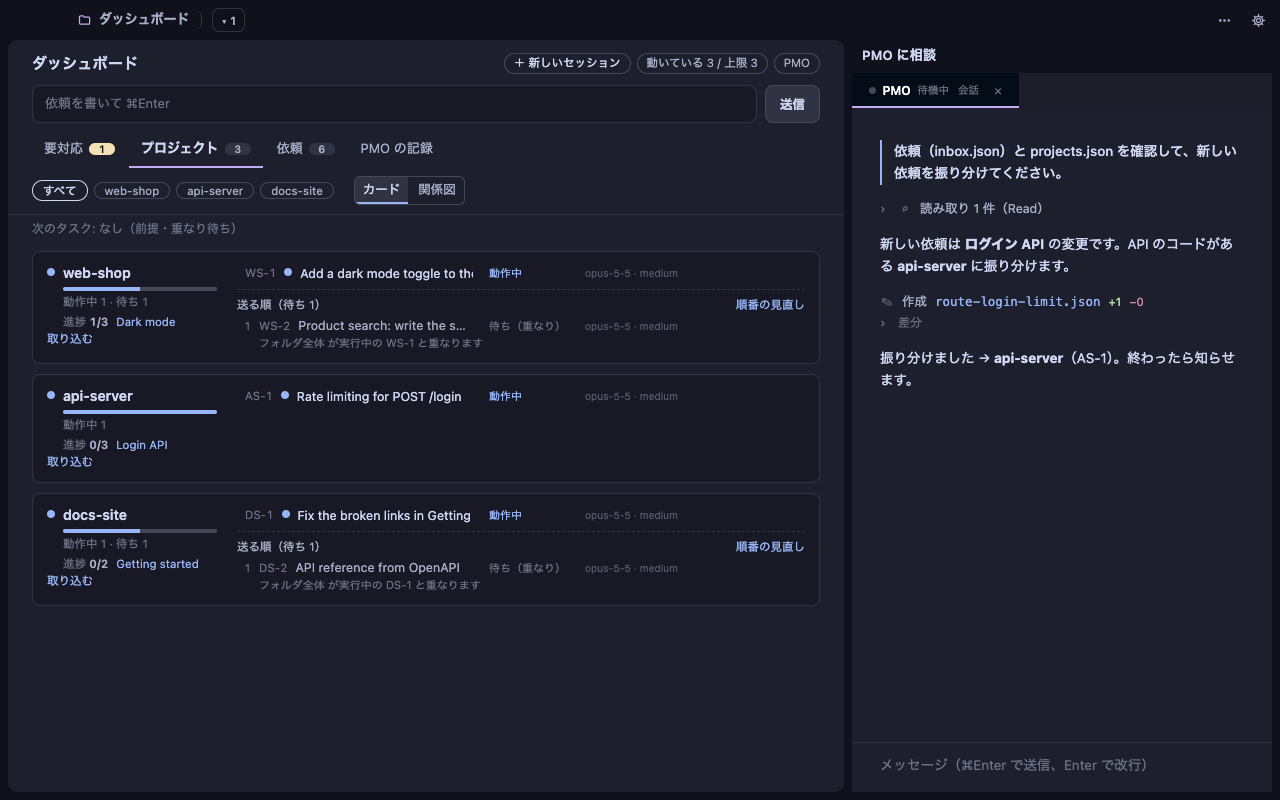
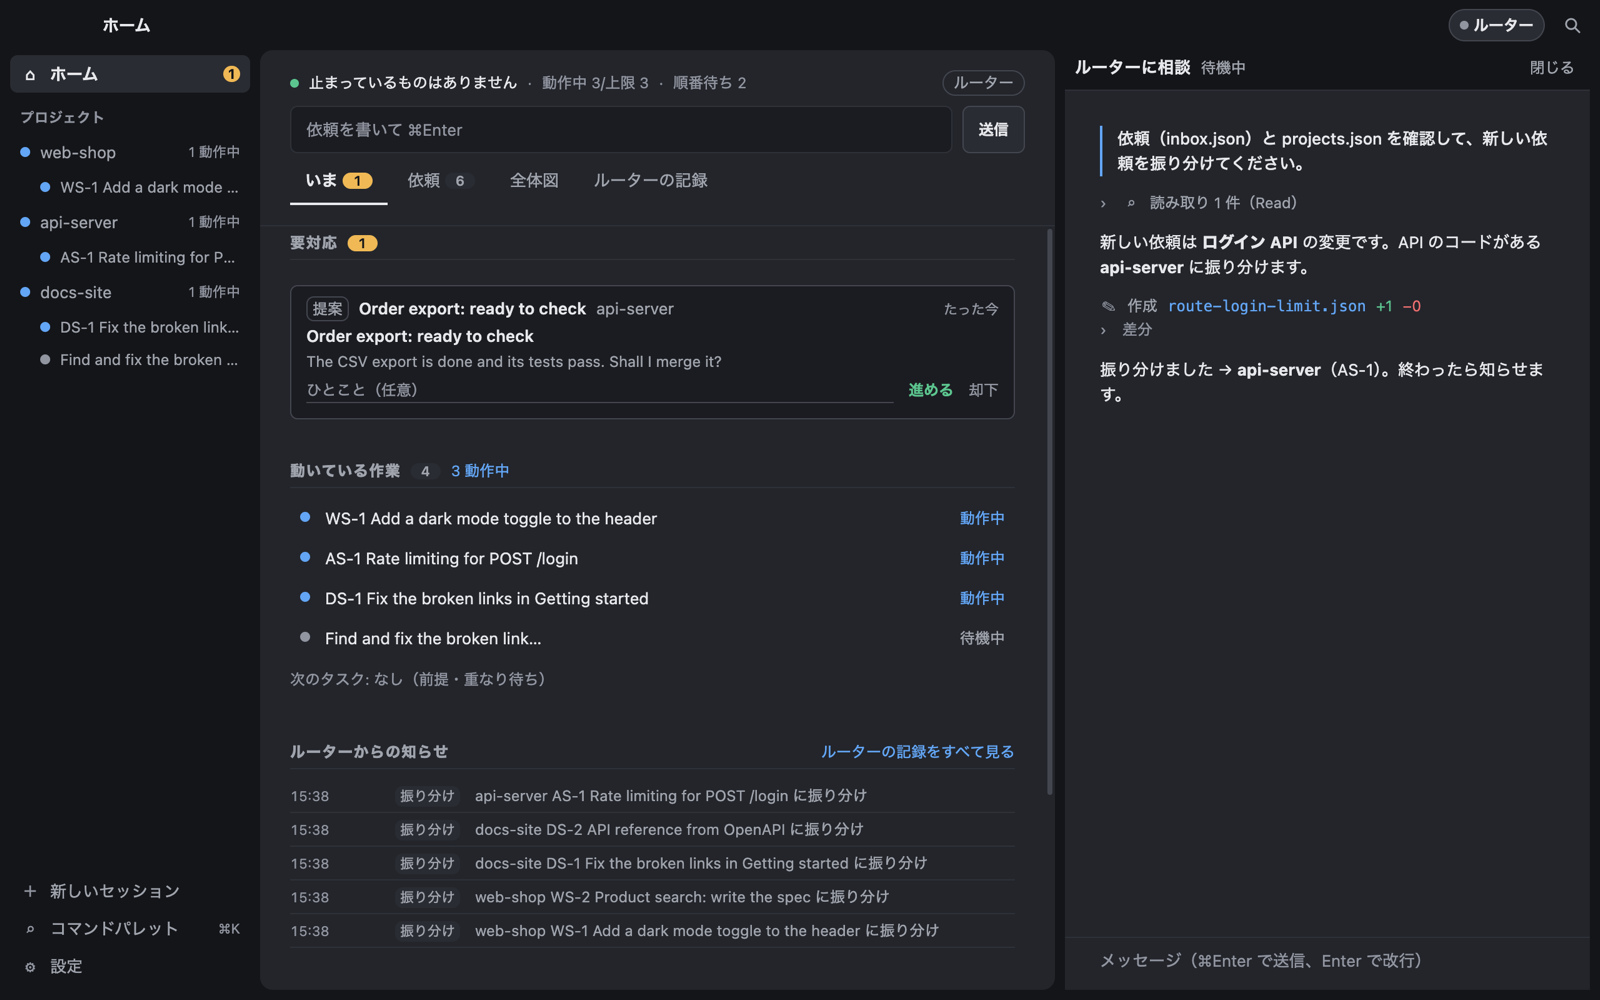
Refresh README screenshots and demo GIF for the current UI

diff --git a/README.ja.md b/README.ja.md
@@ -52,8 +52,8 @@ BantoDesk は、このやりくりを引き受けるデスクトップ アプリ
 ## 画面
 
 <p align="center">
-  <img src="docs/media/screenshot-dashboard.png" alt="ダッシュボードのプロジェクトのタブ: 3 つのフォルダそれぞれで Claude Code のセッションが動き、後ろに待ち行列がある。右は ルーターとの会話" width="100%">
-  <br><b>ダッシュボード</b> — プロジェクトごとに、動いているセッションと待ち行列（動いている 3 / 上限 3）。右の欄で ルーターが振り分けの理由を話します。
+  <img src="docs/media/screenshot-dashboard.png" alt="ダッシュボードのホーム: 答えを待つカード、3 つのフォルダで動いているセッション、ルーターからの知らせ。左のナビにプロジェクトの一覧、右は ルーターとの会話" width="100%">
+  <br><b>ダッシュボード</b> — 要対応、動いている作業（動いている 3 / 上限 3）、ルーターがしたこと。プロジェクトは左のナビに並び、右の欄で ルーターが振り分けの理由を話します。
 </p>
 
 <table>

diff --git a/README.md b/README.md
@@ -55,8 +55,8 @@ BantoDesk is a desktop app that takes that juggling off your hands:
 ## Screenshots
 
 <p align="center">
-  <img src="docs/media/screenshot-dashboard.png" alt="The dashboard's Projects tab: three folders, each with a running Claude Code session and a queue behind it, and the Router conversation on the right" width="100%">
-  <br><b>Dashboard</b> — every project with its running session and queue (3 running, limit 3); the Router explains its routing on the right.
+  <img src="docs/media/screenshot-dashboard.png" alt="The dashboard's Home view: a card waiting for your answer, the running sessions of three folders, the Router's notices, the folders in the left navigation and the Router conversation on the right" width="100%">
+  <br><b>Dashboard</b> — what needs you, what is running (3 running, limit 3) and what the Router did; the projects are in the left navigation and the Router explains its routing on the right.
 </p>
 
 <table>
